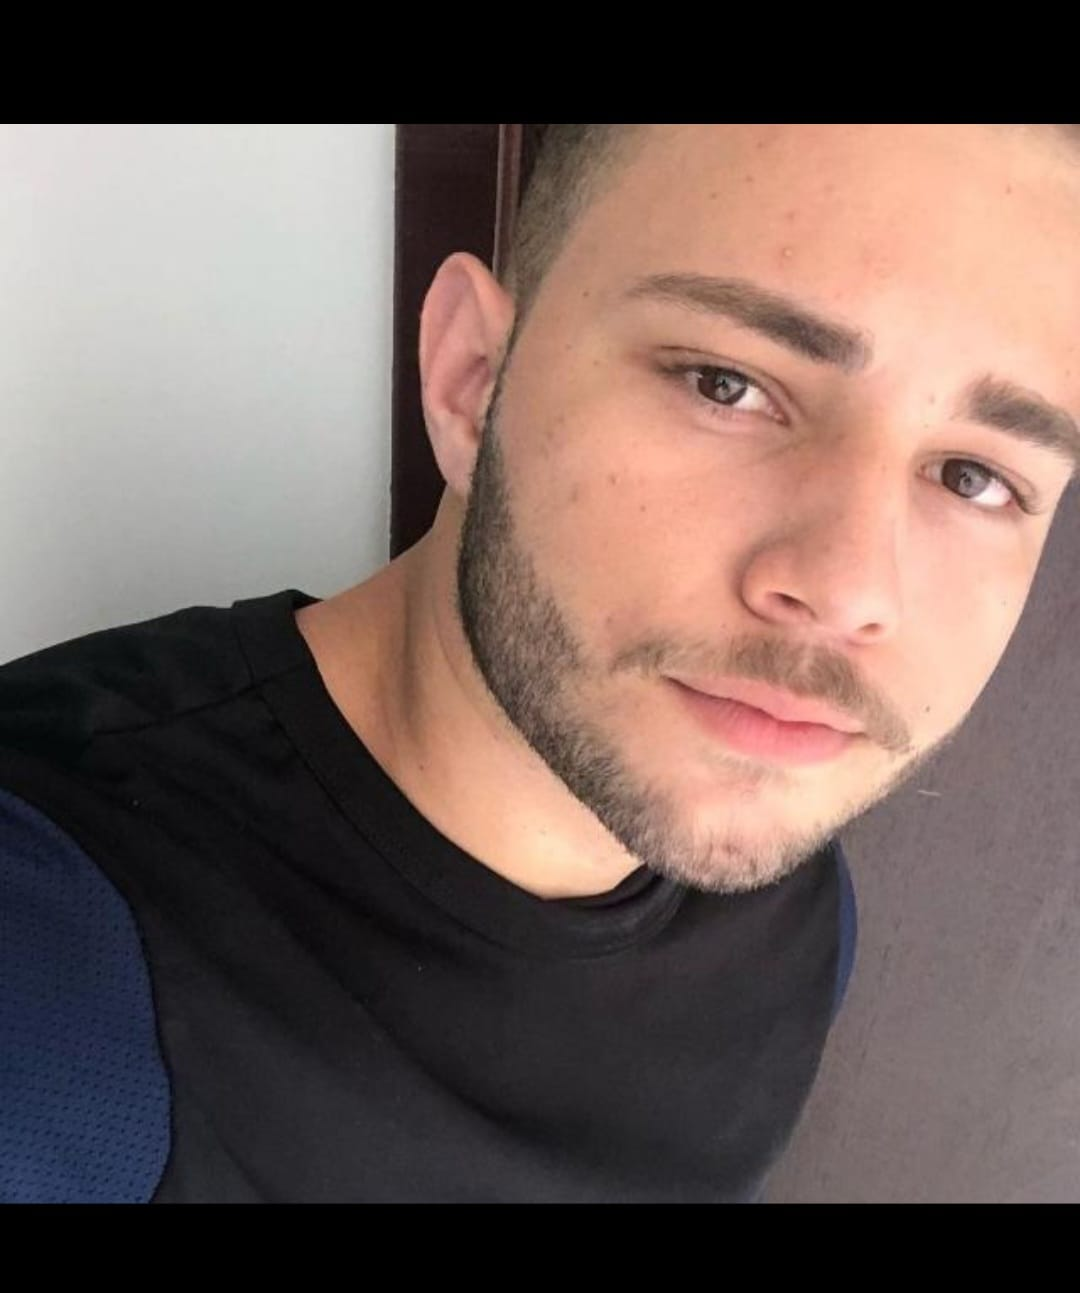
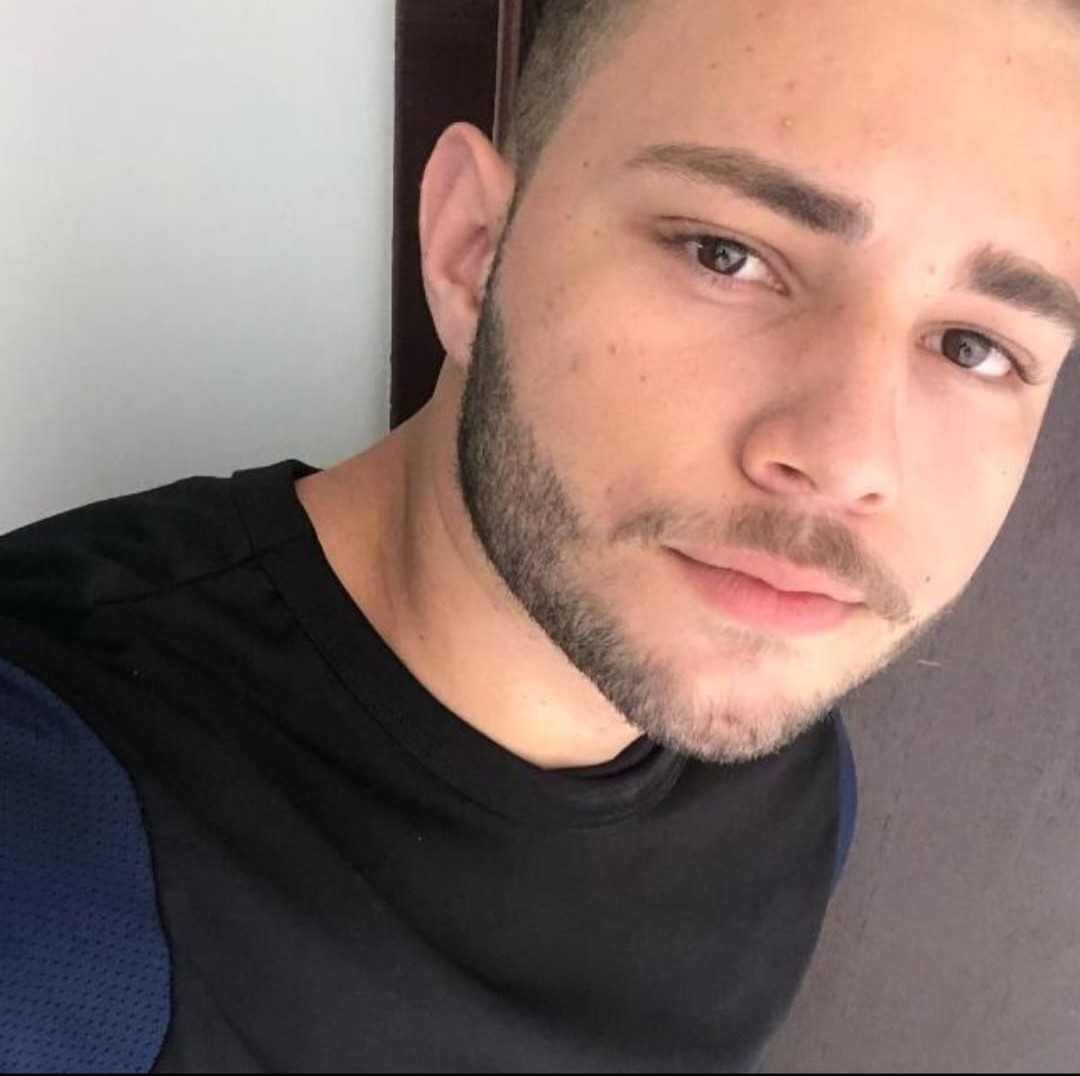
alteração foto de perfil

diff --git a/CSS/style.css b/CSS/style.css
@@ -69,9 +69,11 @@ header {
 }
 
 .fotoPerfil {
-    width: 250px;
-    height: 250px;
-    border-radius: 50%;
+    width: 200px;
+    height: 200px;
+    border-radius: 25%;
+    
+
     margin-bottom: 20px;
 }
 
